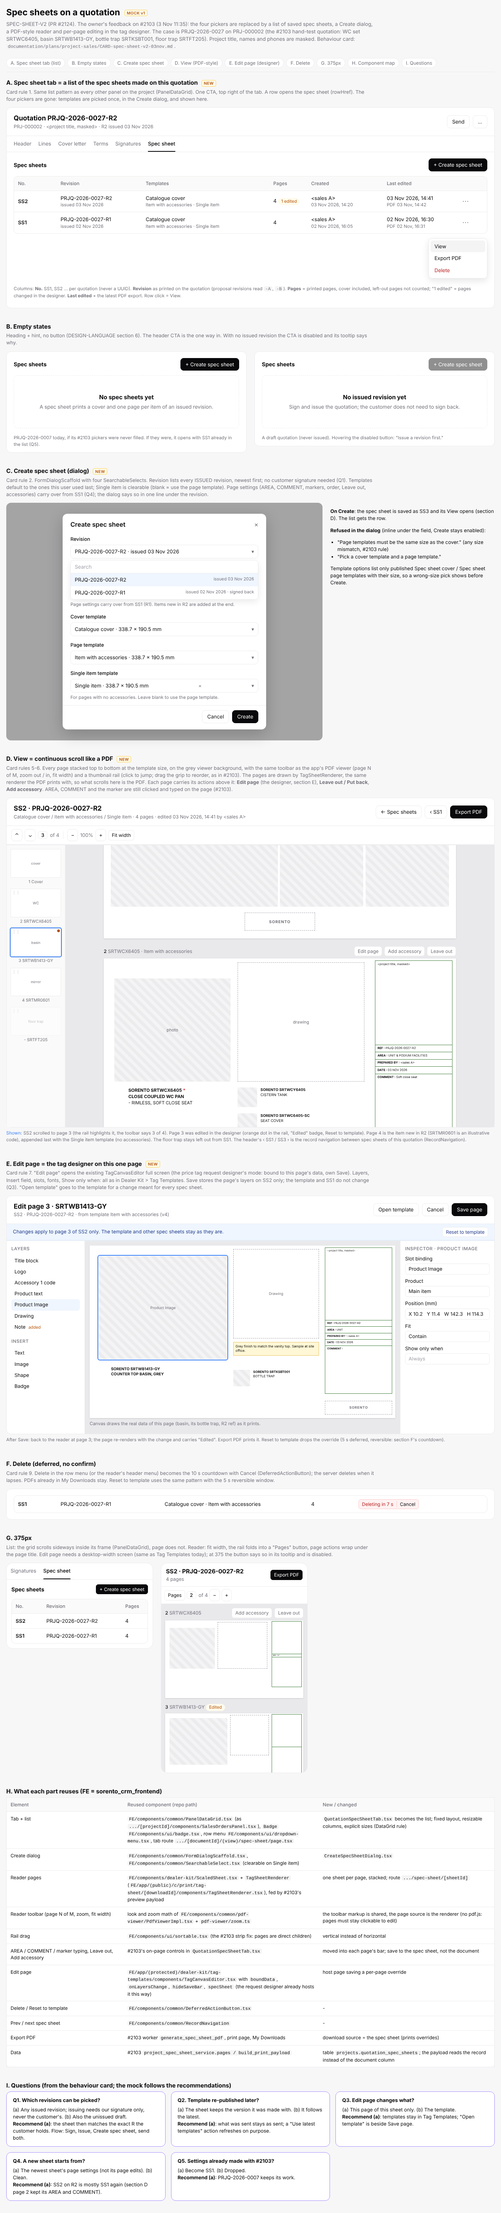
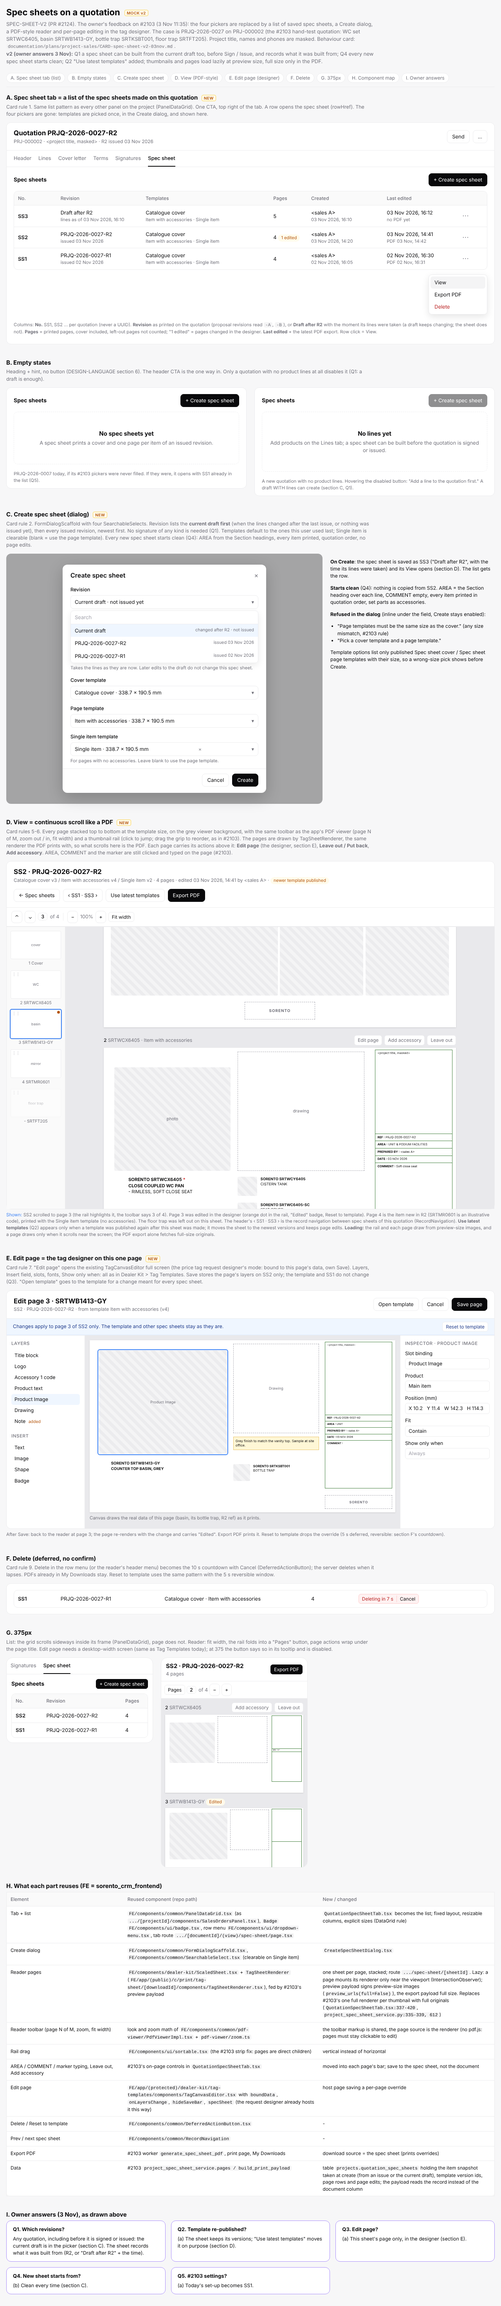
SPEC-SHEET-V2: mock v2 + card/UAC on the owner's answers (draft allowed, clean start, lazy preview) [skip ci]
Claude-Session: https://claude.ai/code/session_01EKXEHgaiMxyAbtPARZjDYS

diff --git a/documentation/mockups/SPEC-SHEET-V2/index.html b/documentation/mockups/SPEC-SHEET-V2/index.html
@@ -3,7 +3,7 @@
 <head>
 <meta charset="utf-8">
 <meta name="viewport" content="width=device-width,initial-scale=1">
-<title>Spec sheets v2 (mock v1)</title>
+<title>Spec sheets v2 (mock v2)</title>
 <style>
 /* App tokens copied from sorento_crm_frontend/css/config.reui.css (light theme), as in documentation/mockups/PS-SPEC-SHEET.
    Spec pages are 338.7 x 190.5 mm (16:9), drawn as TagSheetRenderer draws a sheet. */
@@ -146,12 +146,12 @@ code{font-size:11.5px;background:var(--muted);padding:0 4px;border-radius:4px}
 </head>
 <body>
 <div class="doc">
-<h1>Spec sheets on a quotation <span class="newtag">MOCK v1</span></h1>
+<h1>Spec sheets on a quotation <span class="newtag">MOCK v2</span></h1>
 <p class="intro">SPEC-SHEET-V2 (PR #2124). The owner's feedback on #2103 (3 Nov 11:35): the four pickers are replaced by a list of saved spec sheets, a
 Create dialog, a PDF-style reader and per-page editing in the tag designer. The case is PRJQ-2026-0027 on PRJ-000002 (the #2103 hand-test
 quotation: WC set SRTWC6405, basin SRTWB1413-GY, bottle trap SRTKSBT001, floor trap SRTFT205). Project title, names and phones are masked.
-Behaviour card: <code>documentation/plans/project-sales/CARD-spec-sheet-v2-03nov.md</code>.</p>
-<div class="nav"><a href="#list">A. Spec sheet tab (list)</a><a href="#empty">B. Empty states</a><a href="#create">C. Create spec sheet</a><a href="#reader">D. View (PDF-style)</a><a href="#edit">E. Edit page (designer)</a><a href="#delete">F. Delete</a><a href="#phone">G. 375px</a><a href="#map">H. Component map</a><a href="#ask">I. Questions</a></div>
+Behaviour card: <code>documentation/plans/project-sales/CARD-spec-sheet-v2-03nov.md</code>.<br><b>v2 (owner answers 3 Nov):</b> Q1 a spec sheet can be built from the current draft too, before Sign / Issue, and records what it was built from; Q4 every new spec sheet starts clean; Q2 "Use latest templates" added; thumbnails and pages load lazily at preview size, full size only in the PDF.</p>
+<div class="nav"><a href="#list">A. Spec sheet tab (list)</a><a href="#empty">B. Empty states</a><a href="#create">C. Create spec sheet</a><a href="#reader">D. View (PDF-style)</a><a href="#edit">E. Edit page (designer)</a><a href="#delete">F. Delete</a><a href="#phone">G. 375px</a><a href="#map">H. Component map</a><a href="#ask">I. Owner answers</a></div>
 
 <!-- ============================================================ A -->
 <section id="list">
@@ -167,13 +167,14 @@ Behaviour card: <code>documentation/plans/project-sales/CARD-spec-sheet-v2-03nov
         <colgroup><col style="width:9%"><col style="width:18%"><col style="width:27%"><col style="width:8%"><col style="width:16%"><col style="width:16%"><col style="width:6%"></colgroup>
         <thead><tr><th>No.</th><th>Revision</th><th>Templates</th><th>Pages</th><th>Created</th><th>Last edited</th><th></th></tr></thead>
         <tbody>
+          <tr class="link"><td class="num">SS3</td><td>Draft after R2<span class="sub">lines as of 03 Nov 2026, 16:10</span></td><td>Catalogue cover<span class="sub">Item with accessories &middot; Single item</span></td><td>5</td><td>&lt;sales A&gt;<span class="sub">03 Nov 2026, 16:10</span></td><td>03 Nov 2026, 16:12<span class="sub">no PDF yet</span></td><td><span class="kebab">&middot;&middot;&middot;</span></td></tr>
           <tr class="link"><td class="num">SS2</td><td>PRJQ-2026-0027-R2<span class="sub">issued 03 Nov 2026</span></td><td title="Catalogue cover / Item with accessories / Single item">Catalogue cover<span class="sub">Item with accessories &middot; Single item</span></td><td>4 <span class="badge warn" title="1 page edited in the designer">1 edited</span></td><td>&lt;sales A&gt;<span class="sub">03 Nov 2026, 14:20</span></td><td>03 Nov 2026, 14:41<span class="sub">PDF 03 Nov, 14:42</span></td><td><span class="kebab">&middot;&middot;&middot;</span></td></tr>
           <tr class="link"><td class="num">SS1</td><td>PRJQ-2026-0027-R1<span class="sub">issued 02 Nov 2026</span></td><td>Catalogue cover<span class="sub">Item with accessories &middot; Single item</span></td><td>4</td><td>&lt;sales A&gt;<span class="sub">02 Nov 2026, 16:05</span></td><td>02 Nov 2026, 16:30<span class="sub">PDF 02 Nov, 16:31</span></td><td><span class="kebab">&middot;&middot;&middot;</span></td></tr>
         </tbody>
       </table>
     </div>
     <div style="display:flex;justify-content:flex-end"><div class="menu" style="position:static" title="Row menu of SS2, opened"><div class="on">View</div><div>Export PDF</div><div class="del">Delete</div></div></div>
-    <div class="cap">Columns: <b>No.</b> SS1, SS2 ... per quotation (never a UUID). <b>Revision</b> as printed on the quotation (proposal revisions read <code>-A</code>, <code>-B</code>). <b>Pages</b> = printed pages, cover included, left-out pages not counted; "1 edited" = pages changed in the designer. <b>Last edited</b> + the latest PDF export. Row click = View.</div>
+    <div class="cap">Columns: <b>No.</b> SS1, SS2 ... per quotation (never a UUID). <b>Revision</b> as printed on the quotation (proposal revisions read <code>-A</code>, <code>-B</code>), or <b>Draft after R2</b> with the moment its lines were taken (a draft keeps changing; the sheet does not). <b>Pages</b> = printed pages, cover included, left-out pages not counted; "1 edited" = pages changed in the designer. <b>Last edited</b> + the latest PDF export. Row click = View.</div>
   </div>
 </div>
 </section>
@@ -181,21 +182,21 @@ Behaviour card: <code>documentation/plans/project-sales/CARD-spec-sheet-v2-03nov
 <!-- ============================================================ B -->
 <section id="empty">
 <h2>B. Empty states</h2>
-<p class="why">Heading + hint, no button (DESIGN-LANGUAGE section 6). The header CTA is the one way in. With no issued revision the CTA is disabled and its tooltip says why.</p>
+<p class="why">Heading + hint, no button (DESIGN-LANGUAGE section 6). The header CTA is the one way in. Only a quotation with no product lines at all disables it (Q1: a draft is enough).</p>
 <div class="row">
   <div class="card" style="flex:1 1 420px">
     <div class="body">
       <div class="tabbar"><h4>Spec sheets</h4><span class="btn pri">+ Create spec sheet</span></div>
-      <div class="empty"><h4>No spec sheets yet</h4><p>A spec sheet prints a cover and one page per item of an issued revision.</p></div>
+      <div class="empty"><h4>No spec sheets yet</h4><p>A spec sheet prints a cover and one page per item of the quotation.</p></div>
     </div>
     <div class="cap" style="padding:0 18px 12px">PRJQ-2026-0007 today, if its #2103 pickers were never filled. If they were, it opens with SS1 already in the list (Q5).</div>
   </div>
   <div class="card" style="flex:1 1 420px">
     <div class="body">
-      <div class="tabbar"><h4>Spec sheets</h4><span class="btn pri dis" title="Issue a revision first.">+ Create spec sheet</span></div>
-      <div class="empty"><h4>No issued revision yet</h4><p>Sign and issue the quotation; the customer does not need to sign back.</p></div>
+      <div class="tabbar"><h4>Spec sheets</h4><span class="btn pri dis" title="Add a line to the quotation first.">+ Create spec sheet</span></div>
+      <div class="empty"><h4>No lines yet</h4><p>Add products on the Lines tab; a spec sheet can be built before the quotation is signed or issued.</p></div>
     </div>
-    <div class="cap" style="padding:0 18px 12px">A draft quotation (never issued). Hovering the disabled button: "Issue a revision first."</div>
+    <div class="cap" style="padding:0 18px 12px">A new quotation with no product lines. Hovering the disabled button: "Add a line to the quotation first." A draft WITH lines can create (section C, Q1).</div>
   </div>
 </div>
 </section>
@@ -203,15 +204,15 @@ Behaviour card: <code>documentation/plans/project-sales/CARD-spec-sheet-v2-03nov
 <!-- ============================================================ C -->
 <section id="create">
 <h2>C. Create spec sheet (dialog) <span class="newtag">NEW</span></h2>
-<p class="why">Card rule 2. FormDialogScaffold with four SearchableSelects. Revision lists every ISSUED revision, newest first; no customer signature needed (Q1). Templates default to the ones this user used last; Single item is clearable (blank = use the page template). Page settings (AREA, COMMENT, markers, order, Leave out, accessories) carry over from SS1 (Q4); the dialog says so in one line under the revision.</p>
+<p class="why">Card rule 2. FormDialogScaffold with four SearchableSelects. Revision lists the <b>current draft first</b> (when the lines changed after the last issue, or nothing was issued yet), then every issued revision, newest first. No signature of any kind is needed (Q1). Templates default to the ones this user used last; Single item is clearable (blank = use the page template). Every new spec sheet starts clean (Q4): AREA from the Section headings, every item printed, quotation order, no page edits.</p>
 <div class="row">
   <div class="scrim" style="flex:1 1 560px">
     <div class="dlg">
       <div class="dh">Create spec sheet <span style="color:var(--muted-fg);font-weight:400">&times;</span></div>
       <div class="db">
-        <div class="fld"><label>Revision</label><div class="sel"><span>PRJQ-2026-0027-R2 &middot; issued 03 Nov 2026</span></div>
-          <div class="pop"><div class="s">Search</div><div class="o on"><span>PRJQ-2026-0027-R2</span><small>issued 03 Nov 2026</small></div><div class="o"><span>PRJQ-2026-0027-R1</span><small>issued 02 Nov 2026 &middot; signed back</small></div></div>
-          <div class="help">Page settings carry over from SS1 (R1). Items new in R2 are added at the end.</div></div>
+        <div class="fld"><label>Revision</label><div class="sel"><span>Current draft &middot; not issued yet</span></div>
+          <div class="pop"><div class="s">Search</div><div class="o on"><span>Current draft</span><small>changed after R2 &middot; not issued</small></div><div class="o"><span>PRJQ-2026-0027-R2</span><small>issued 03 Nov 2026</small></div><div class="o"><span>PRJQ-2026-0027-R1</span><small>issued 02 Nov 2026</small></div></div>
+          <div class="help">Takes the lines as they are now. Later edits to the draft do not change this spec sheet.</div></div>
         <div class="fld"><label>Cover template</label><div class="sel"><span>Catalogue cover &middot; 338.7 x 190.5 mm</span></div></div>
         <div class="fld"><label>Page template</label><div class="sel"><span>Item with accessories &middot; 338.7 x 190.5 mm</span></div></div>
         <div class="fld"><label>Single item template</label><div class="sel"><span>Single item &middot; 338.7 x 190.5 mm</span><span class="x">&times;</span></div><div class="help">For pages with no accessories. Leave blank to use the page template.</div></div>
@@ -220,7 +221,7 @@ Behaviour card: <code>documentation/plans/project-sales/CARD-spec-sheet-v2-03nov
     </div>
   </div>
   <div style="flex:1 1 300px;font-size:12.5px;max-width:420px">
-    <p><b>On Create</b>: the spec sheet is saved as SS3 and its View opens (section D). The list gets the row.</p>
+    <p><b>On Create</b>: the spec sheet is saved as SS3 ("Draft after R2", with the time its lines were taken) and its View opens (section D). The list gets the row.</p><p><b>Starts clean</b> (Q4): nothing is copied from SS2. AREA = the Section heading over each line, COMMENT empty, every item printed in quotation order, set parts as accessories.</p>
     <p><b>Refused in the dialog</b> (inline under the field, Create stays enabled):</p>
     <ul style="padding-left:18px;margin:0">
       <li>"Page templates must be the same size as the cover." (any size mismatch, #2103 rule)</li>
@@ -236,7 +237,7 @@ Behaviour card: <code>documentation/plans/project-sales/CARD-spec-sheet-v2-03nov
 <h2>D. View = continuous scroll like a PDF <span class="newtag">NEW</span></h2>
 <p class="why">Card rules 5-6. Every page stacked top to bottom at the template size, on the grey viewer background, with the same toolbar as the app's PDF viewer (page N of M, zoom out / in, fit width) and a thumbnail rail (click to jump; drag the grip to reorder, as in #2103). The pages are drawn by TagSheetRenderer, the same renderer the PDF prints with, so what scrolls here is the PDF. Each page carries its actions above it: <b>Edit page</b> (the designer, section E), <b>Leave out / Put back</b>, <b>Add accessory</b>. AREA, COMMENT and the marker are still clicked and typed on the page (#2103).</p>
 <div class="card">
-  <div class="hdr"><div><h3>SS2 &middot; PRJQ-2026-0027-R2</h3><div class="meta">Catalogue cover / Item with accessories / Single item &middot; 4 pages &middot; edited 03 Nov 2026, 14:41 by &lt;sales A&gt;</div></div><div style="display:flex;gap:8px;flex-wrap:wrap"><span class="btn">&larr; Spec sheets</span><span class="btn">&lsaquo; SS1</span><span class="btn pri">Export PDF</span></div></div>
+  <div class="hdr"><div><h3>SS2 &middot; PRJQ-2026-0027-R2</h3><div class="meta">Catalogue cover v3 / Item with accessories v4 / Single item v2 &middot; 4 pages &middot; edited 03 Nov 2026, 14:41 by &lt;sales A&gt; &middot; <span class="badge warn" title="Item with accessories was published again (v5) after this sheet was made">newer template published</span></div></div><div style="display:flex;gap:8px;flex-wrap:wrap"><span class="btn">&larr; Spec sheets</span><span class="btn">&lsaquo; SS1 &middot; SS3 &rsaquo;</span><span class="btn">Use latest templates</span><span class="btn pri">Export PDF</span></div></div>
   <div class="tool">
     <span class="btn ic" title="Previous page">&#8963;</span><span class="btn ic" title="Next page">&#8964;</span>
     <span class="pn"><b>3</b> of 4</span><span class="sep"></span>
@@ -277,7 +278,7 @@ Behaviour card: <code>documentation/plans/project-sales/CARD-spec-sheet-v2-03nov
           <div class="abs logo" style="left:77%;top:90%;width:22%;height:8%">SORENTO</div>
         </div></div>
       <!-- page 4 new in R2 -->
-      <div class="pw"><div class="pmeta"><span><b>4</b> SRTMR0601 &middot; Single item <span class="badge blue">New in R2</span></span><span class="acts"><span class="btn sm">Edit page</span><span class="btn sm">Add accessory</span><span class="btn sm">Leave out</span></span></div>
+      <div class="pw"><div class="pmeta"><span><b>4</b> SRTMR0601 &middot; Single item </span><span class="acts"><span class="btn sm">Edit page</span><span class="btn sm">Add accessory</span><span class="btn sm">Leave out</span></span></div>
         <div class="pg">
           <div class="abs ph-img" style="left:3%;top:10%;width:33%;height:52%">photo</div>
           <div class="abs drw" style="left:38%;top:2%;width:36%;height:60%">drawing</div>
@@ -293,7 +294,7 @@ Behaviour card: <code>documentation/plans/project-sales/CARD-spec-sheet-v2-03nov
     </div>
   </div>
 </div>
-<div class="cap"><span class="hint">Shown:</span> SS2 scrolled to page 3 (the rail highlights it, the toolbar says 3 of 4). Page 3 was edited in the designer (orange dot in the rail, "Edited" badge, Reset to template). Page 4 is the item new in R2 (SRTMR0601 is an illustrative code), appended last with the Single item template (no accessories). The floor trap stays left out from SS1. The header's &lsaquo; SS1 / SS3 &rsaquo; is the record navigation between spec sheets of this quotation (RecordNavigation).</div>
+<div class="cap"><span class="hint">Shown:</span> SS2 scrolled to page 3 (the rail highlights it, the toolbar says 3 of 4). Page 3 was edited in the designer (orange dot in the rail, "Edited" badge, Reset to template). Page 4 is the item new in R2 (SRTMR0601 is an illustrative code), printed with the Single item template (no accessories). The floor trap was left out on this sheet. The header's &lsaquo; SS1 &middot; SS3 &rsaquo; is the record navigation between spec sheets of this quotation (RecordNavigation). <b>Use latest templates</b> (Q2) appears only when a template was published again after this sheet was made; it moves the sheet to the newest versions and keeps page edits. <b>Loading:</b> the rail and each page draw from preview-size images, and a page draws only when it scrolls near the screen; the PDF export alone fetches full-size originals.</div>
 </section>
 
 <!-- ============================================================ E -->
@@ -380,7 +381,7 @@ Behaviour card: <code>documentation/plans/project-sales/CARD-spec-sheet-v2-03nov
 <tbody>
 <tr><td>Tab + list</td><td><code>FE/components/common/PanelDataGrid.tsx</code> (as <code>.../[projectId]/components/SalesOrdersPanel.tsx</code>), <code>Badge</code> <code>FE/components/ui/badge.tsx</code>, row menu <code>FE/components/ui/dropdown-menu.tsx</code>, tab route <code>.../[documentId]/(view)/spec-sheet/page.tsx</code></td><td><code>QuotationSpecSheetTab.tsx</code> becomes the list; fixed layout, resizable columns, explicit sizes (DataGrid rule)</td></tr>
 <tr><td>Create dialog</td><td><code>FE/components/common/FormDialogScaffold.tsx</code>, <code>FE/components/common/SearchableSelect.tsx</code> (clearable on Single item)</td><td><code>CreateSpecSheetDialog.tsx</code></td></tr>
-<tr><td>Reader pages</td><td><code>FE/components/dealer-kit/ScaledSheet.tsx</code> + <code>TagSheetRenderer</code> (<code>FE/app/(public)/c/print/tag-sheet/[downloadId]/components/TagSheetRenderer.tsx</code>), fed by #2103's preview payload</td><td>one sheet per page, stacked; route <code>.../spec-sheet/[sheetId]</code></td></tr>
+<tr><td>Reader pages</td><td><code>FE/components/dealer-kit/ScaledSheet.tsx</code> + <code>TagSheetRenderer</code> (<code>FE/app/(public)/c/print/tag-sheet/[downloadId]/components/TagSheetRenderer.tsx</code>), fed by #2103's preview payload</td><td>one sheet per page, stacked; route <code>.../spec-sheet/[sheetId]</code>. Lazy: a page mounts its renderer only near the viewport (IntersectionObserver); preview payload signs preview-size images (<code>preview_urls(full=False)</code>), the export payload full size. Replaces #2103's one full renderer per thumbnail with full originals (<code>QuotationSpecSheetTab.tsx:337-420</code>, <code>project_spec_sheet_service.py:335-339, 612</code>)</td></tr>
 <tr><td>Reader toolbar (page N of M, zoom, fit width)</td><td>look and zoom math of <code>FE/components/common/pdf-viewer/PdfViewerImpl.tsx</code> + <code>pdf-viewer/zoom.ts</code></td><td>the toolbar markup is shared, the page source is the renderer (no pdf.js: pages must stay clickable to edit)</td></tr>
 <tr><td>Rail drag</td><td><code>FE/components/ui/sortable.tsx</code> (the #2103 strip fix: pages are direct children)</td><td>vertical instead of horizontal</td></tr>
 <tr><td>AREA / COMMENT / marker typing, Leave out, Add accessory</td><td>#2103's on-page controls in <code>QuotationSpecSheetTab.tsx</code></td><td>moved into each page's bar; save to the spec sheet, not the document</td></tr>
@@ -388,19 +389,19 @@ Behaviour card: <code>documentation/plans/project-sales/CARD-spec-sheet-v2-03nov
 <tr><td>Delete / Reset to template</td><td><code>FE/components/common/DeferredActionButton.tsx</code></td><td>-</td></tr>
 <tr><td>Prev / next spec sheet</td><td><code>FE/components/common/RecordNavigation</code></td><td>-</td></tr>
 <tr><td>Export PDF</td><td>#2103 worker <code>generate_spec_sheet_pdf</code>, print page, My Downloads</td><td>download source = the spec sheet (prints overrides)</td></tr>
-<tr><td>Data</td><td>#2103 <code>project_spec_sheet_service.pages / build_print_payload</code></td><td>table <code>projects.quotation_spec_sheets</code>; the payload reads the record instead of the document column</td></tr>
+<tr><td>Data</td><td>#2103 <code>project_spec_sheet_service.pages / build_print_payload</code></td><td>table <code>projects.quotation_spec_sheets</code> holding the item snapshot taken at create (from an issue or the current draft), template version ids, page rows and page edits; the payload reads the record instead of the document column</td></tr>
 </tbody></table>
 </section>
 
 <!-- ============================================================ I -->
 <section id="ask">
-<h2>I. Questions (from the behaviour card; the mock follows the recommendations)</h2>
+<h2>I. Owner answers (3 Nov), as drawn above</h2>
 <div class="opt">
-  <div class="o rec"><h4>Q1. Which revisions can be picked?</h4>(a) Any issued revision; issuing needs our signature only, never the customer's. (b) Also the unissued draft.<br><b>Recommend (a)</b>: the sheet then matches the exact R the customer holds. Flow: Sign, Issue, Create spec sheet, send both.</div>
-  <div class="o rec"><h4>Q2. Template re-published later?</h4>(a) The sheet keeps the version it was made with. (b) It follows the latest.<br><b>Recommend (a)</b>: what was sent stays as sent; a "Use latest templates" action refreshes on purpose.</div>
-  <div class="o rec"><h4>Q3. Edit page changes what?</h4>(a) This page of this sheet only. (b) The template.<br><b>Recommend (a)</b>: templates stay in Tag Templates; "Open template" is beside Save page.</div>
-  <div class="o rec"><h4>Q4. A new sheet starts from?</h4>(a) The newest sheet's page settings (not its page edits). (b) Clean.<br><b>Recommend (a)</b>: SS2 on R2 is mostly SS1 again (section D page 2 kept its AREA and COMMENT).</div>
-  <div class="o rec"><h4>Q5. Settings already made with #2103?</h4>(a) Become SS1. (b) Dropped.<br><b>Recommend (a)</b>: PRJQ-2026-0007 keeps its work.</div>
+  <div class="o rec"><h4>Q1. Which revisions?</h4>Any quotation, including before it is signed or issued: the current draft is in the picker (section C). The sheet records what it was built from (R2, or "Draft after R2" + the time).</div>
+  <div class="o rec"><h4>Q2. Template re-published?</h4>(a) The sheet keeps its versions; "Use latest templates" moves it on purpose (section D).</div>
+  <div class="o rec"><h4>Q3. Edit page?</h4>(a) This sheet's page only, in the designer (section E).</div>
+  <div class="o rec"><h4>Q4. New sheet starts from?</h4>(b) Clean every time (section C).</div>
+  <div class="o rec"><h4>Q5. #2103 settings?</h4>(a) Today's set-up becomes SS1.</div>
 </div>
 </section>
 </div>

diff --git a/documentation/plans/project-sales/spec-sheet-v2-03nov-acceptance-criteria.md b/documentation/plans/project-sales/spec-sheet-v2-03nov-acceptance-criteria.md
@@ -1,6 +1,6 @@
 # UAC: SPEC-SHEET-V2 (saved spec sheets, PDF-style reader, per-page designer edit)
 
-**Status:** Draft against mock v1 (Q1-Q5 at the card's recommendations). Changes with the owner's answers.
+**Status:** Draft against mock v2 (owner answers 3 Nov: Q1 draft allowed, Q2 a, Q3 a, Q4 b clean, Q5 a).
 Card: `CARD-spec-sheet-v2-03nov.md`. Mock: `documentation/mockups/SPEC-SHEET-V2/index.html`.
 
 ## List (tab)
@@ -11,8 +11,8 @@ Card: `CARD-spec-sheet-v2-03nov.md`. Mock: `documentation/mockups/SPEC-SHEET-V2/
 - AC-L2 `SS<n>` numbers per document, start at 1, never reused after a delete (max + 1).
 - AC-L3 Pages = cover + visible item pages (left-out pages not counted); "N edited" shows when N pages carry
   an override.
-- AC-L4 No spec sheets: heading "No spec sheets yet" + hint, no button in the body. No issued revision:
-  heading "No issued revision yet", Create disabled with the reason "Issue a revision first."
+- AC-L4 No spec sheets: heading "No spec sheets yet" + hint, no button in the body. No product line at all:
+  heading "No lines yet", Create disabled with the reason "Add a line to the quotation first."
 - AC-L5 Row click opens View. Row menu: View, Export PDF, Delete.
 - AC-L6 Readers without edit rights see the list, View and Export PDF; no Create, Edit page, Delete,
   on-page typing, Leave out or Add accessory.
@@ -20,16 +20,19 @@ Card: `CARD-spec-sheet-v2-03nov.md`. Mock: `documentation/mockups/SPEC-SHEET-V2/
 ## Create
 
 - AC-C1 Create spec sheet opens a dialog with Revision, Cover template, Page template, Single item template
-  (clearable). Revision lists every issued revision of this document, newest first; the customer's
-  counter-signature does not matter.
+  (clearable). Revision lists "Current draft" first (no issue yet, or lines changed after the last issue),
+  then every issued revision, newest first. No signature (ours or the customer's) is required.
 - AC-C2 Defaults: newest revision; templates from the last spec sheet this user created (any document),
   else blank.
 - AC-C3 Template options are published `spec_cover` / `spec_page` templates only. Create refuses (422, shown
   under the field): missing cover or page template; a template of another family or unpublished; a size
   differing from the cover; a revision of another document.
 - AC-C4 Create stores the record with the template ids AND their published version ids at that moment, and
-  the page rows copied from this document's newest spec sheet by item key (else from the #2103
-  `quotation_documents.spec_sheet` rows); page overrides are not copied. Then View opens.
+  a snapshot of the items (from the issue, or from each scope's current version for a draft) with
+  `items_taken_at`. Page rows start clean: AREA = Section heading, nothing left out, quotation order, no
+  page edits. Nothing is copied from another spec sheet. Then View opens.
+- AC-C5 A draft sheet does not change when the draft's lines change later; it lists as "Draft after R<n>"
+  (or "Draft" when nothing was issued) with the time its lines were taken.
 
 ## View (reader)
 
@@ -40,6 +43,10 @@ Card: `CARD-spec-sheet-v2-03nov.md`. Mock: `documentation/mockups/SPEC-SHEET-V2/
 - AC-V3 AREA / COMMENT / marker click-to-type, Leave out / Put back and Add accessory behave as in #2103,
   saving to THIS spec sheet only (another sheet of the same document is unchanged).
 - AC-V4 Prev / next goes between spec sheets of the same document.
+- AC-V5 Performance: page images in the reader and rail are preview size; a page's renderer mounts only when
+  it is near the viewport; only the export payload signs full-size originals.
+- AC-V6 Use latest templates shows only when a newer published version of a used template exists; it moves
+  the sheet to the newest versions and keeps page edits.
 
 ## Edit page
 
@@ -63,9 +70,10 @@ Card: `CARD-spec-sheet-v2-03nov.md`. Mock: `documentation/mockups/SPEC-SHEET-V2/
 ## Data / migration
 
 - AC-D1 New table `projects.quotation_spec_sheets` (company scoped, audit tracked), FK document (cascade) and
-  issue (cascade); unique (document_id, sheet_no).
+  issue (cascade, nullable for a draft); unique (document_id, sheet_no); JSONB `items`, `rows`, `page_edits`.
 - AC-D2 Backfill: each document whose `spec_sheet` has cover and page templates set gets `SS1` on its saved
-  issue (else newest issue; none: skipped), with its rows and the templates' current published versions.
+  issue (else newest issue; none: skipped), with its rows, its items snapshot and the templates' current
+  published versions.
   Idempotent; downgrade drops the table.
 - AC-D3 A template re-published after create does not change an existing spec sheet's pages (frozen version).
 

diff --git a/documentation/plans/project-sales/CARD-spec-sheet-v2-03nov.md b/documentation/plans/project-sales/CARD-spec-sheet-v2-03nov.md
@@ -1,6 +1,29 @@
 # CARD: SPEC-SHEET-V2, saved spec sheets + PDF-style viewer (3 Nov 2026)
 
-**Status:** Behaviour card, asked (crew-ask on PR #2124). Track: L (new table, new routes).
+**Status:** Answered (owner, 3 Nov, via crew). Mock v2 asked. Track: L (new table, new routes).
+
+**Owner answers:** Q1 = any quotation, INCLUDING the unissued draft (before Sign / Issue); the sheet records
+what it was built from. Q2 = (a) keep the versions + "Use latest templates". Q3 = (a) this sheet's page only.
+Q4 = (b) start clean every time. Q5 = (a) today's set-up becomes SS1. Crew perf note: #2103 draws one full
+renderer per thumbnail with full-size originals (`FE/.../QuotationSpecSheetTab.tsx:337-420`;
+`_sign(full=True)` in the preview, `project_spec_sheet_service.py:335-339, 612`); v2 renders the stack
+lazily at preview size and signs full size for the export only.
+
+**Rule changes from the answers** (they override the rules below where they differ):
+- Rule 2: Revision lists "Current draft" first (when there is no issue yet, or a scope's current version is
+  newer than the last issue's), then every issue newest first. Create is disabled only when the quotation has
+  no product line at all.
+- Rule 3: a draft's versions keep taking edits until issued, so EVERY sheet snapshots its items at create
+  (JSONB `items`: key, code, name, brand, product id, set parts, section, frozen photo / drawing ids, quoted
+  price) and prints from that snapshot; one code path for issue and draft. The record keeps `issue_id`
+  (null for a draft), `based_on_issue_no` (the last issue at the time, for "Draft after R2") and
+  `items_taken_at`.
+- Rule 4 (Q4): no carry-over. A new sheet starts clean: AREA = Section heading, every item printed,
+  quotation order, set parts as accessories, no page edits.
+- Rule 5 (perf): the rail and page stack draw from preview-size signed images and mount a renderer only near
+  the viewport; full-size originals are signed only in the export payload.
+- Q2: "Use latest templates" shows when a newer published version exists; it re-points the version ids
+  and keeps page edits (an edit is layers for that page; it does not depend on the template version).
 Paths: BE = `sorento_crm_backend/app`, FE = `sorento_crm_frontend`. Code read on main c7ee22cf.
 
 ## The owner's ask (3 Nov ~11:35)

diff --git a/documentation/plans/project-sales/PLAN-spec-sheet-v2-03nov.md b/documentation/plans/project-sales/PLAN-spec-sheet-v2-03nov.md
@@ -1,6 +1,6 @@
 # PLAN: Spec sheet tab v2, saved spec sheets list + PDF-style viewer (SPEC-SHEET-V2)
 
-**Status:** Plan stage: behaviour card asked; mock v1 asked (`documentation/mockups/SPEC-SHEET-V2/index.html`), build waits for the owner's OK.
+**Status:** Plan stage: behaviour card asked; owner answered Q1-Q5; mock v2 asked (`documentation/mockups/SPEC-SHEET-V2/index.html`), build waits for the owner's OK.
 Card: `CARD-spec-sheet-v2-03nov.md`.
 Track: L (new table migration, new routes). Builds on #2103 (`PLAN-ps-spec-sheet-02nov.md`).
 UAC: `spec-sheet-v2-03nov-acceptance-criteria.md` (after the mock is approved).
